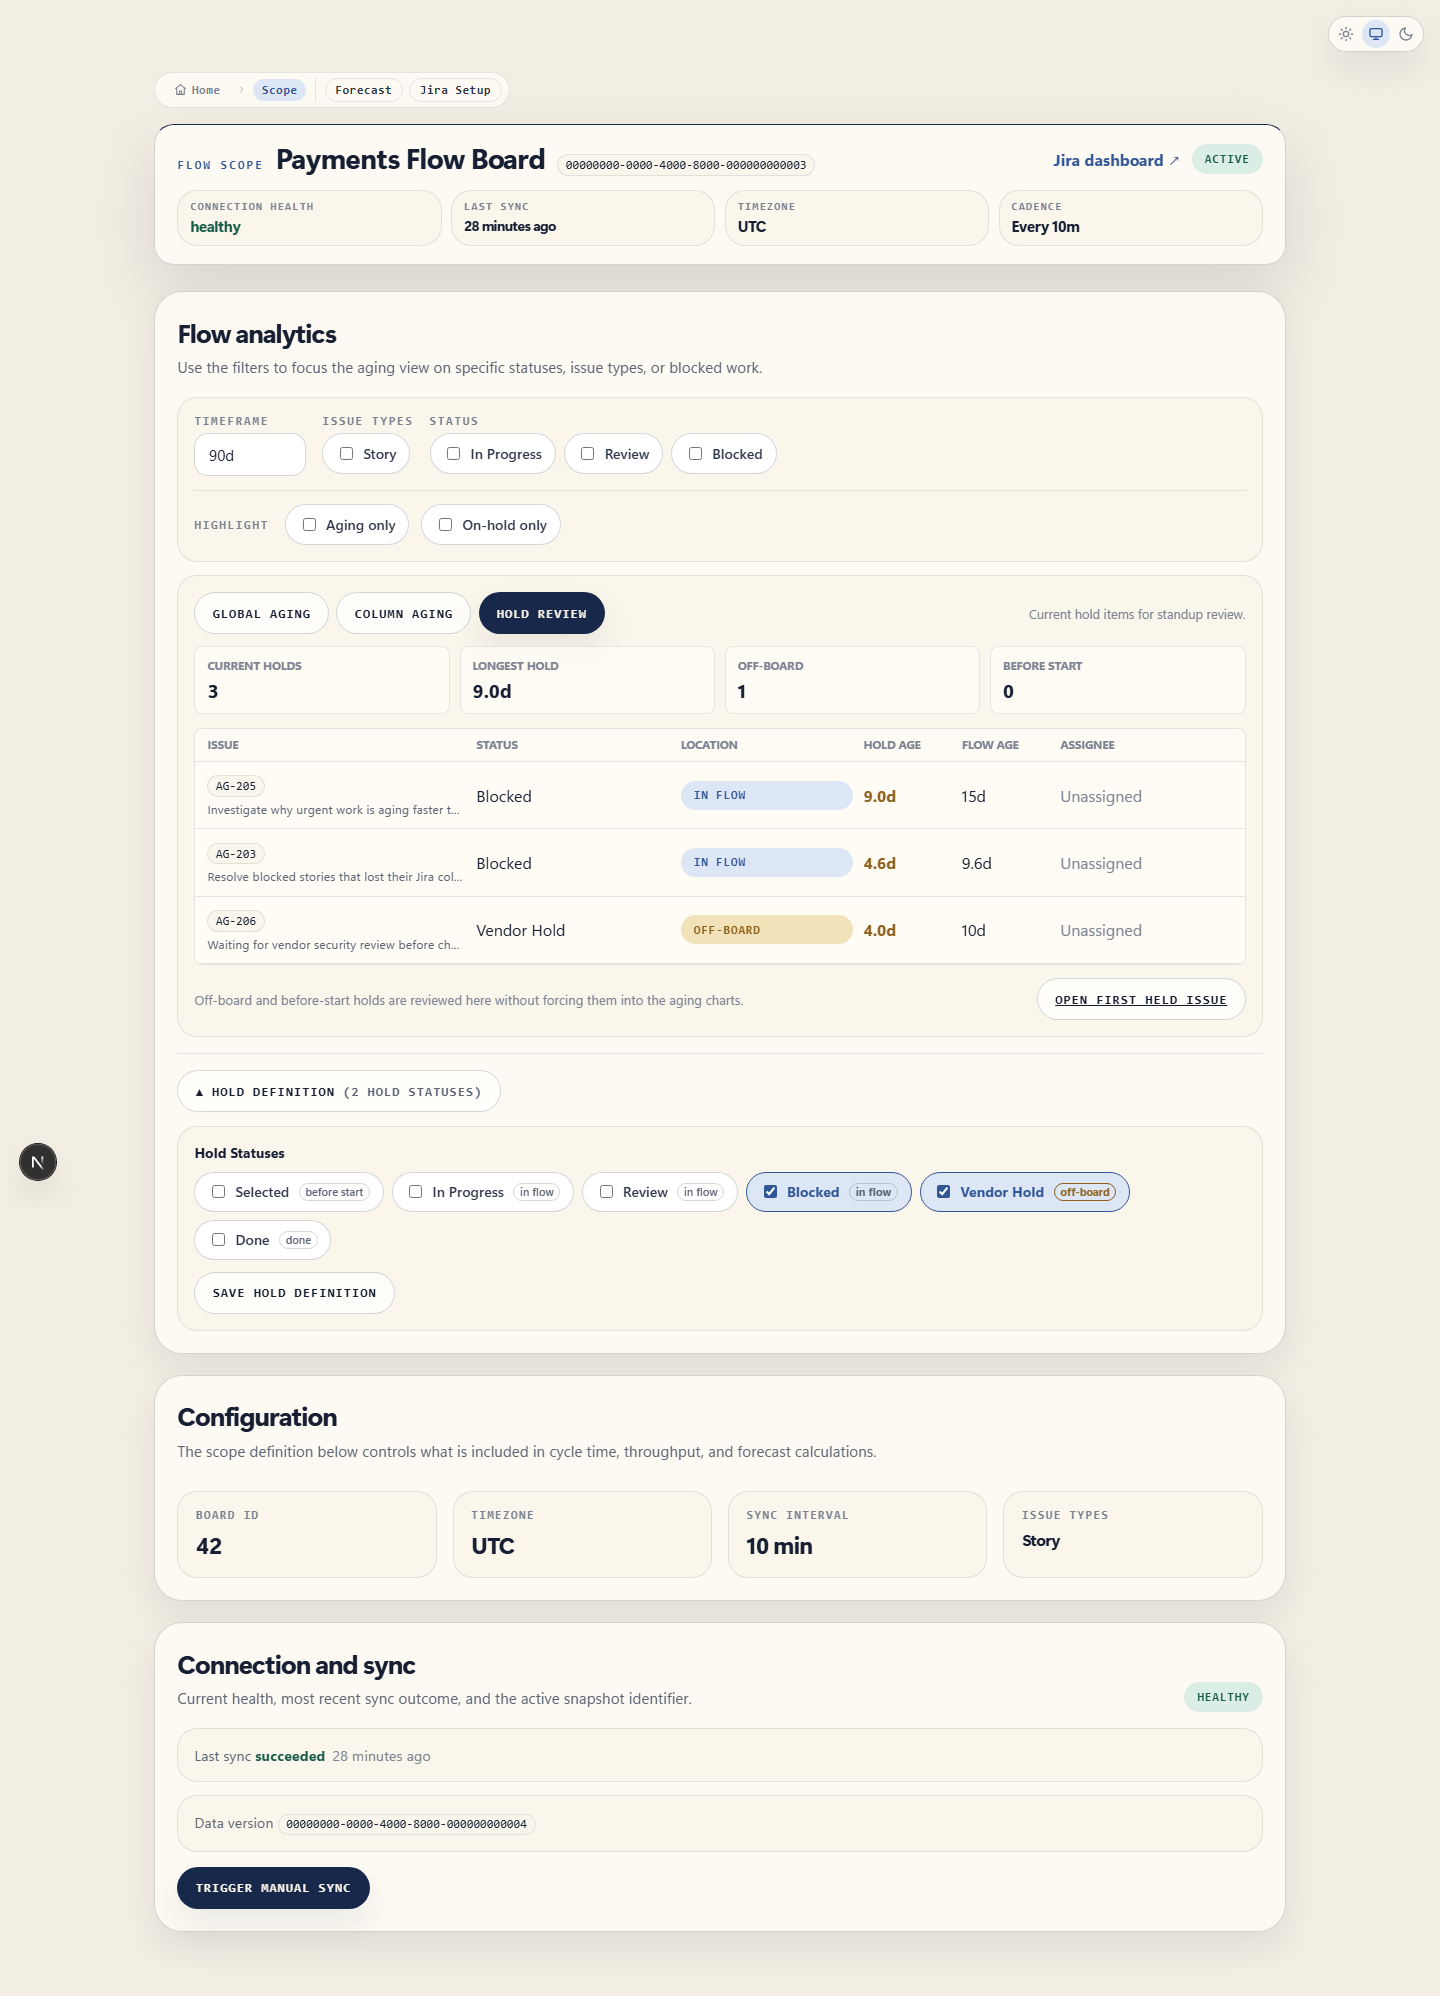
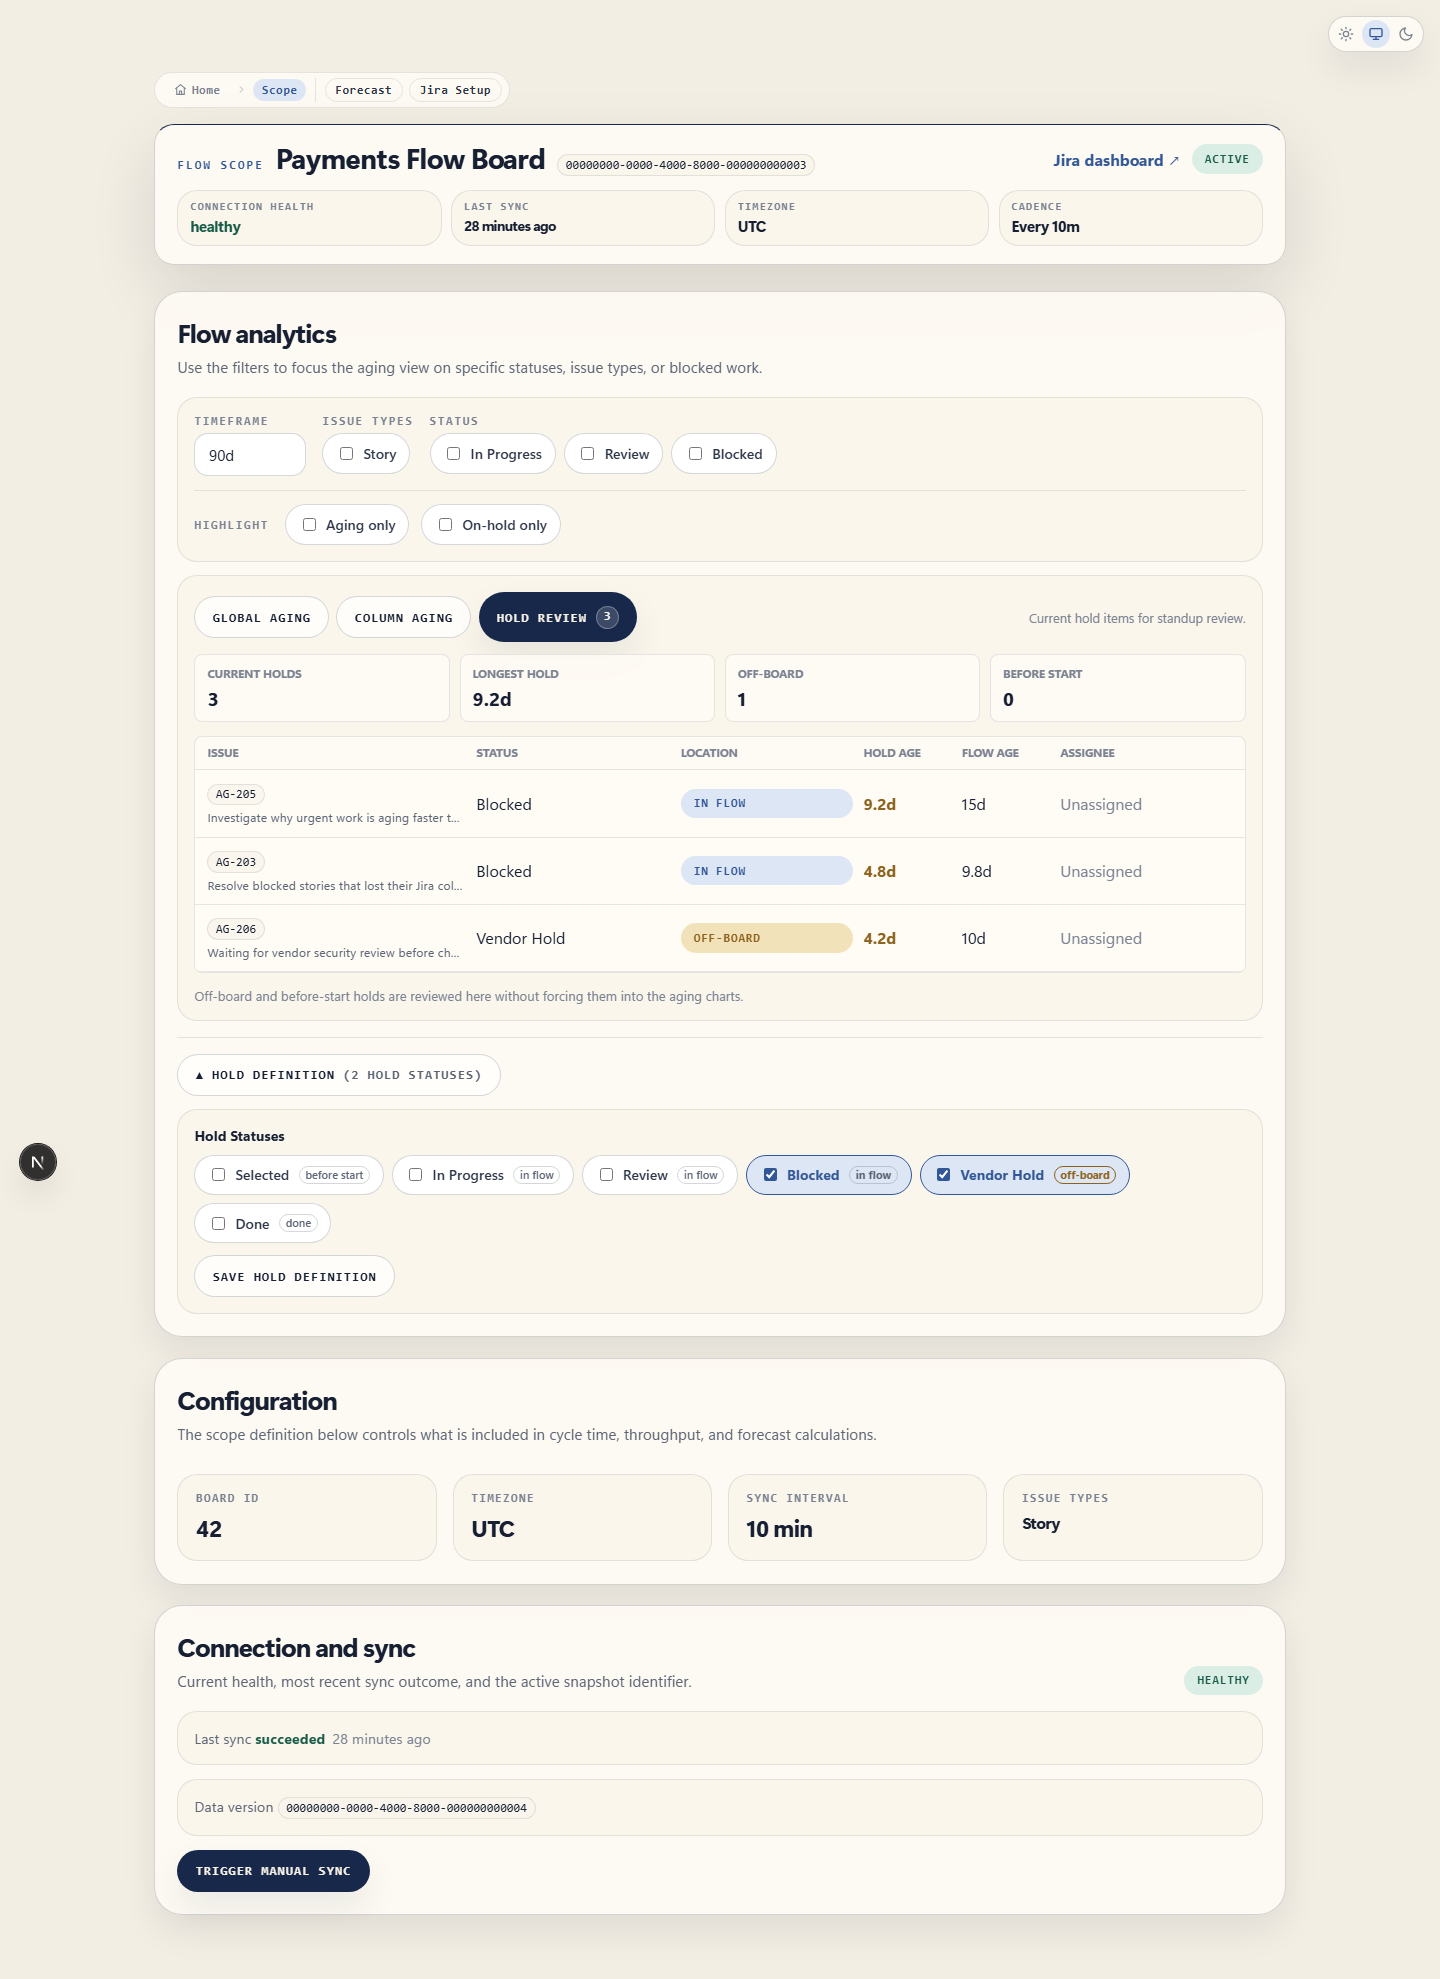
show hold count and reuse detail drawer

diff --git a/apps/web/src/components/flow/flow-analytics-section.test.tsx b/apps/web/src/components/flow/flow-analytics-section.test.tsx
@@ -7,9 +7,10 @@ import { afterEach, describe, expect, it, vi } from 'vitest';
 
 import { FlowAnalyticsSection } from './flow-analytics-section';
 
-const { agingThresholdDrawerMock, columnAgingScatterPlotMock } = vi.hoisted(() => ({
+const { agingThresholdDrawerMock, columnAgingScatterPlotMock, workItemDetailDrawerMock } = vi.hoisted(() => ({
   agingThresholdDrawerMock: vi.fn(() => null),
   columnAgingScatterPlotMock: vi.fn((props: { hideEmptyColumns?: boolean }) => props),
+  workItemDetailDrawerMock: vi.fn(),
 }));
 
 vi.mock('./aging-scatter-plot', () => ({
@@ -24,7 +25,18 @@ vi.mock('./column-aging-scatter-plot', () => ({
 }));
 
 vi.mock('./work-item-detail-drawer', () => ({
-  WorkItemDetailDrawer: () => null,
+  WorkItemDetailDrawer: (props: {
+    workItemId: string | null;
+    issueKey?: string;
+    onClose: () => void;
+  }) => {
+    workItemDetailDrawerMock(props);
+    return props.workItemId ? (
+      <div role="dialog" aria-label={`Work item detail: ${props.issueKey ?? props.workItemId}`}>
+        Detail drawer
+      </div>
+    ) : null;
+  },
 }));
 
 vi.mock('./aging-threshold-drawer', () => ({
@@ -201,6 +213,7 @@ function jsonResponse(body: unknown): Response {
 afterEach(() => {
   agingThresholdDrawerMock.mockClear();
   columnAgingScatterPlotMock.mockClear();
+  workItemDetailDrawerMock.mockClear();
   vi.unstubAllGlobals();
   vi.restoreAllMocks();
   try {
@@ -513,6 +526,8 @@ describe('FlowAnalyticsSection', () => {
 
         await screen.findByText('Global chart');
 
+        expect(screen.getByRole('button', { name: /hold review.*2 current hold items/i })).toBeVisible();
+
         await user.click(screen.getByRole('button', { name: /hold review/i }));
 
         expect(await screen.findByRole('region', { name: /hold review/i })).toBeVisible();
@@ -522,6 +537,19 @@ describe('FlowAnalyticsSection', () => {
         expect(screen.getByText('Not started')).toBeVisible();
         expect(screen.getByText('AGILE-203')).toBeVisible();
         expect(screen.getByText('8.1d')).toBeVisible();
+        expect(screen.queryByRole('link', { name: /open first held issue/i })).not.toBeInTheDocument();
+
+        await user.click(screen.getByRole('button', { name: /open AGILE-202 hold details/i }));
+
+        expect(await screen.findByRole('dialog', { name: /work item detail: AGILE-202/i })).toBeVisible();
+        await waitFor(() => {
+          expect(workItemDetailDrawerMock).toHaveBeenLastCalledWith(
+            expect.objectContaining({
+              workItemId: '22222222-2222-4222-8222-222222222222',
+              issueKey: 'AGILE-202',
+            }),
+          );
+        });
         expect(window.localStorage.getItem(`${VIEW_STORAGE_PREFIX}${TEST_SCOPE_ID}`)).toBe('hold');
       });
     });

diff --git a/apps/web/src/components/flow/flow-analytics-section.tsx b/apps/web/src/components/flow/flow-analytics-section.tsx
@@ -276,6 +276,7 @@ export function FlowAnalyticsSection({ scopeId, filterOptions, footer }: FlowAna
   const viewModel = response ? shapeFlowAnalytics(response) : null;
   const visibleColumnNames = viewModel ? getVisibleColumnNames(viewModel, hideEmptyColumns) : [];
   const activeColumnNames = viewModel ? getActiveColumnNames(viewModel) : [];
+  const holdReviewCount = response?.holdItems?.length ?? 0;
 
   return (
     <div>
@@ -339,10 +340,37 @@ export function FlowAnalyticsSection({ scopeId, filterOptions, footer }: FlowAna
                 </button>
                 <button
                   type="button"
+                  aria-label={`Hold review (${holdReviewCount} current hold ${holdReviewCount === 1 ? 'item' : 'items'})`}
                   onClick={() => handleChartViewChange('hold')}
-                  style={buttonStyle(chartView === 'hold' ? 'primary' : 'secondary')}
+                  style={{
+                    ...buttonStyle(chartView === 'hold' ? 'primary' : 'secondary'),
+                    display: 'inline-flex',
+                    alignItems: 'center',
+                    gap: '0.55rem',
+                  }}
                 >
-                  Hold review
+                  <span>Hold review</span>
+                  <span
+                    style={{
+                      display: 'inline-grid',
+                      placeItems: 'center',
+                      minWidth: '1.45rem',
+                      height: '1.45rem',
+                      padding: '0 0.35rem',
+                      borderRadius: '999px',
+                      border: chartView === 'hold'
+                        ? '1px solid rgba(255, 255, 255, 0.28)'
+                        : `1px solid ${palette.lineStrong}`,
+                      background: chartView === 'hold' ? 'rgba(255, 255, 255, 0.16)' : palette.panel,
+                      color: chartView === 'hold' ? palette.buttonPrimaryText : palette.accentStrong,
+                      fontFamily: 'var(--font-label)',
+                      fontSize: '0.72rem',
+                      fontWeight: 800,
+                      lineHeight: 1,
+                    }}
+                  >
+                    {holdReviewCount}
+                  </span>
                 </button>
                 {chartView === 'column' && (
                   <label

diff --git a/apps/web/src/app/api/v1/scopes/[scopeId]/items/[workItemId]/route.ts b/apps/web/src/app/api/v1/scopes/[scopeId]/items/[workItemId]/route.ts
@@ -61,7 +61,8 @@ async function handleGET(
     }
 
     const now = new Date();
-    const referenceDate = item.startedAt ?? item.createdAt;
+    const flowStartedAt = resolveFlowStartedAt(item, scope.startStatusIds);
+    const referenceDate = flowStartedAt ?? item.createdAt;
     const endDate = item.completedAt ?? now;
     const ageDays = differenceInWorkingDays(referenceDate, endDate, scope.timezone);
     const jiraUpdatedAgeWorkingDays = item.jiraUpdatedAt
@@ -75,7 +76,7 @@ async function handleGET(
       : [];
     const { columnDurations } = buildColumnDurationsForItem({
       createdAt: item.createdAt,
-      startedAt: item.startedAt,
+      startedAt: flowStartedAt,
       completedAt: item.completedAt,
       currentStatusId: item.currentStatusId,
       statusChanges: item.lifecycleEvents
@@ -162,7 +163,7 @@ async function handleGET(
           }
         : {}),
       jiraUrl: item.directUrl,
-      ...(item.startedAt ? { startedAt: item.startedAt.toISOString() } : {}),
+      ...(flowStartedAt ? { startedAt: flowStartedAt.toISOString() } : {}),
       ...(item.completedAt ? { completedAt: item.completedAt.toISOString() } : {}),
       columnDurations: columnDurations.map(toColumnDurationResponse),
       holdPeriods,
@@ -182,6 +183,23 @@ async function handleGET(
 }
 
 export const GET = withHttpMetrics('GET', '/api/v1/scopes/[scopeId]/items/[workItemId]', handleGET);
+
+function resolveFlowStartedAt(
+  item: NonNullable<Awaited<ReturnType<typeof getWorkItemWithDetail>>>,
+  startStatusIds: string[],
+): Date | null {
+  if (item.startedAt) {
+    return item.startedAt;
+  }
+
+  const startStatuses = new Set(startStatusIds);
+  return item.lifecycleEvents.find(
+    (event) =>
+      event.eventType === 'status_change' &&
+      event.toStatusId != null &&
+      startStatuses.has(event.toStatusId),
+  )?.changedAt ?? null;
+}
 
 function toColumnDurationResponse(duration: {
   columnName: string;

diff --git a/apps/web/src/components/flow/hold-review-panel.tsx b/apps/web/src/components/flow/hold-review-panel.tsx
@@ -1,7 +1,7 @@
 'use client';
 
 import type { HoldReviewItem } from '@agile-tools/shared/contracts/api';
-import { buttonStyle, codeStyle, insetPanelStyle, palette, tonePillStyle } from '@/components/app/chrome';
+import { codeStyle, insetPanelStyle, palette, tonePillStyle } from '@/components/app/chrome';
 
 interface HoldReviewPanelProps {
   holdItems: HoldReviewItem[];
@@ -154,16 +154,6 @@ export function HoldReviewPanel({ holdItems, onItemSelect }: HoldReviewPanelProp
         <span style={{ color: palette.soft, fontSize: '0.82rem' }}>
           Off-board and before-start holds are reviewed here without forcing them into the aging charts.
         </span>
-        {holdItems.some((item) => item.jiraUrl) && (
-          <a
-            href={holdItems.find((item) => item.jiraUrl)?.jiraUrl}
-            target="_blank"
-            rel="noopener noreferrer"
-            style={{ ...buttonStyle('secondary'), marginLeft: 'auto' }}
-          >
-            Open first held issue
-          </a>
-        )}
       </div>
     </div>
   );